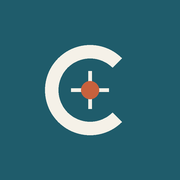
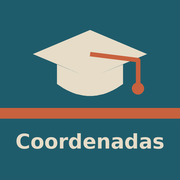
Ícone novo (opção A): capelo, faixa terracota e nome Coordenadas

Changed region(s): [[0.0, 0.1667, 1.0, 0.8333]]

diff --git a/index.html b/index.html
@@ -6,8 +6,8 @@
 <title>Coordenadas — gestão escolar</title>
 <meta name="theme-color" content="#1F5C6B">
 <link rel="manifest" href="manifest.webmanifest">
-<link rel="icon" type="image/png" sizes="192x192" href="icon-192.png">
-<link rel="apple-touch-icon" href="apple-touch-icon.png">
+<link rel="icon" type="image/png" sizes="192x192" href="icon-192.png?v=2">
+<link rel="apple-touch-icon" href="apple-touch-icon.png?v=2">
 <meta name="apple-mobile-web-app-capable" content="yes">
 <meta name="apple-mobile-web-app-title" content="Coordenadas">
 <link rel="preconnect" href="https://fonts.googleapis.com">
@@ -35,7 +35,7 @@ a{color:var(--blue)}
 .top{background:var(--blueBg);color:#fff;padding:18px max(4vw,16px) 0}
 .topin{max-width:1100px;margin:auto;display:flex;gap:16px;align-items:center;justify-content:space-between;flex-wrap:wrap}
 .brand{display:flex;align-items:baseline;gap:12px;flex-wrap:wrap}
[2 lines of base64/hex data omitted]
 .brand span{opacity:.85;font-size:15px}
 .quem{display:flex;gap:10px;align-items:center;font-size:14px;flex-wrap:wrap}
 .quem button{background:rgba(255,255,255,.15);color:#fff;border:0;border-radius:8px;padding:6px 10px;font:700 14px Inter,system-ui,sans-serif;cursor:pointer;min-height:36px}

diff --git a/sw.js b/sw.js
@@ -1,5 +1,5 @@
 // Coordenadas — service worker: rede primeiro, cópia local só para abrir sem internet.
-const CACHE='coordenadas-v4';
+const CACHE='coordenadas-v5';
 const BASE=['./','./index.html','./manifest.webmanifest','./icon-192.png','./icon-512.png'];
 self.addEventListener('install',e=>{e.waitUntil(caches.open(CACHE).then(c=>c.addAll(BASE)).then(()=>self.skipWaiting()));});
 self.addEventListener('activate',e=>{e.waitUntil(caches.keys().then(ks=>Promise.all(ks.filter(k=>k!==CACHE).map(k=>caches.delete(k)))).then(()=>self.clients.claim()));});
